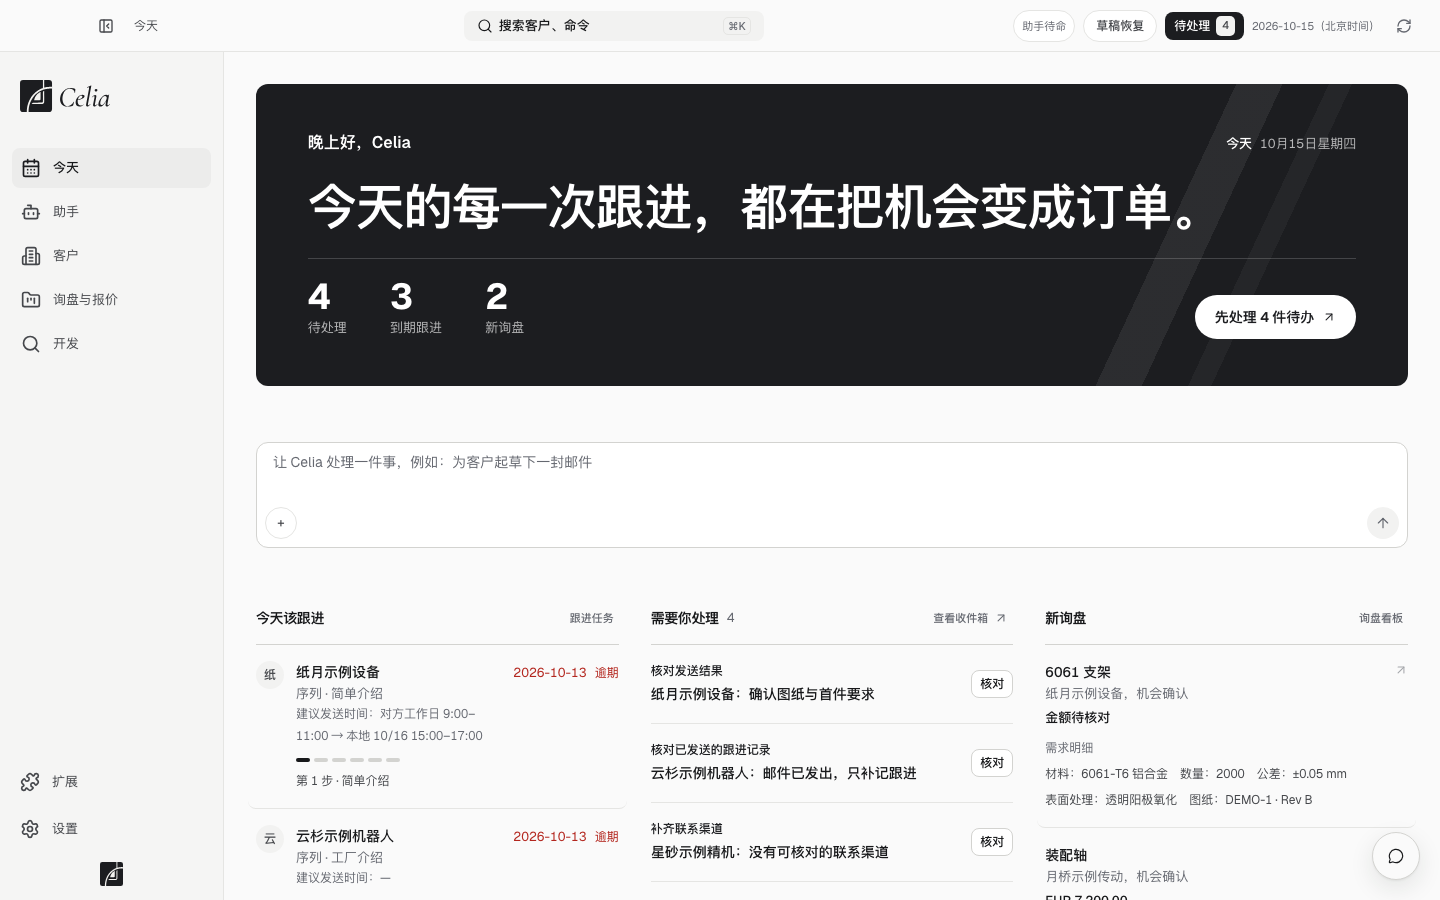
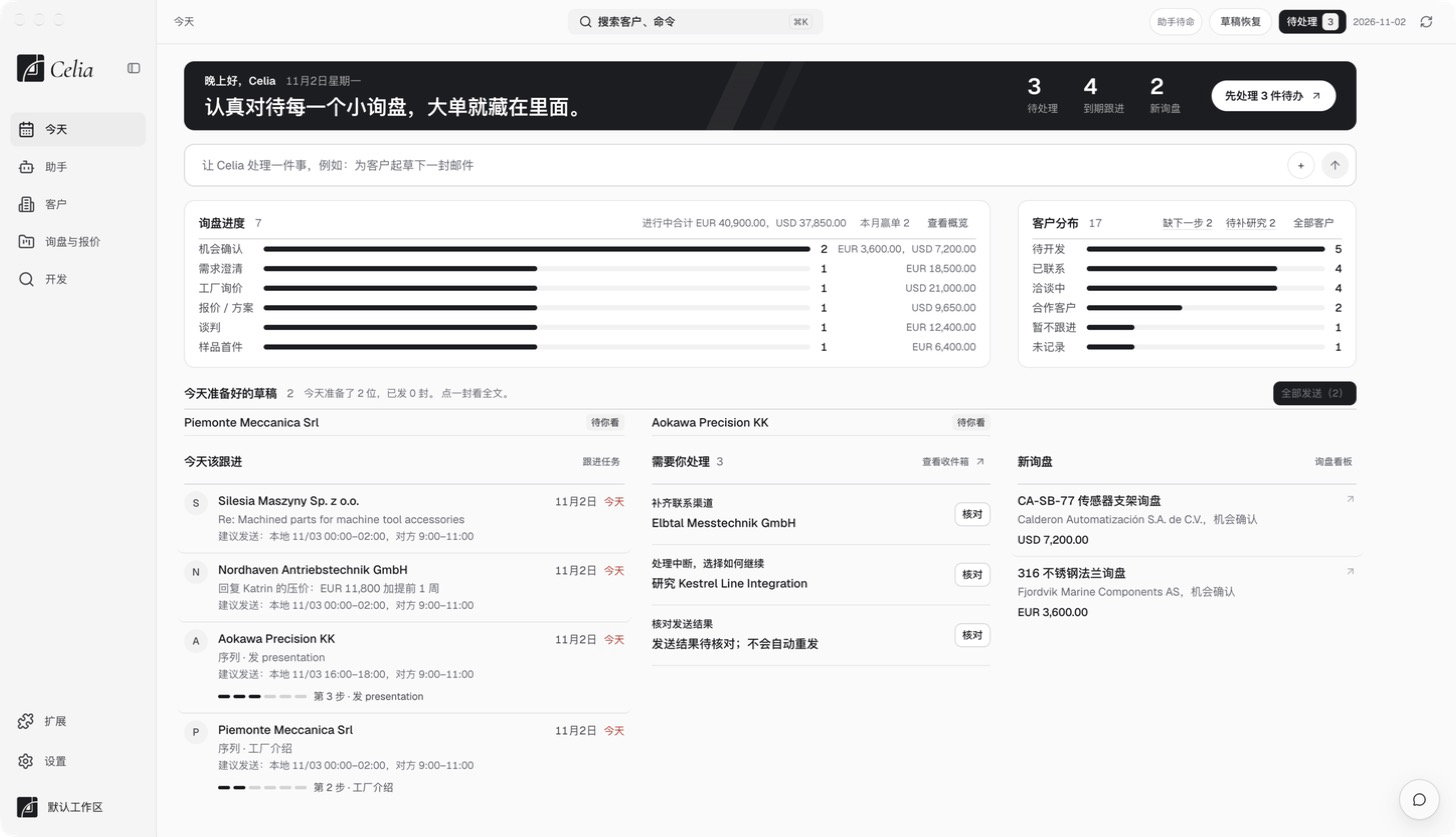
Guide 0.0.9.2: today overview, update button and loading screen

diff --git a/guide/03-daily.md b/guide/03-daily.md
@@ -19,7 +19,7 @@
 
 点左边的 **今天**。
 
-<p align="center"><img src="../assets/screenshots/graphite-today.png" alt="今天页：最上面是问候和今天的一句话，下面是待处理、到期跟进、新询盘" width="860"></p>
+<p align="center"><img src="../assets/screenshots/graphite-today.png" alt="今天页：最上面是问候和今天的一句话以及待处理、到期跟进、新询盘，下面是询盘进度和客户分布的数据概览，再往下是草稿和明细" width="860"></p>
 
 最上面一栏是问候和**今天的一句话**，每天换一句。旁边三个数字一眼看完今天的量：
 
@@ -32,6 +32,8 @@
 数字下面的大按钮会告诉你**先做哪件事**：有待处理就是「先处理 N 件待办」，没有就是「去跟进 N 位客户」，都清空了就是「让 Celia 开工」，点一下就开始。
 
 问候里的名字来自 设置 → 我的资料 里的姓名；没填时显示「Celia」。
+
+再往下是**数据概览**（0.0.9.2 起）：**询盘进度**是每个阶段有几单、多少金额，不同币种分开算；**客户分布**是每个阶段有几家客户。点一行就打开对应的列表。
 
 往下是三块明细：**需要你处理**、**今天该跟进**（客户和他们在跟进序列里走到第几步）、**新询盘**（材料、数量、公差、表面处理、图纸）。
 

diff --git a/guide/08-data.md b/guide/08-data.md
@@ -59,7 +59,7 @@
 | **你的邮箱服务商** | 你或助手发出的邮件 | 发送时 |
 | **领英** | 你或助手发出的私信和帖子 | 使用领英功能时 |
 | **GitHub** | 只读取版本信息，不带任何客户数据 | 每天检查更新时 |
-| **GitHub** | 只读取小修复的版本信息并下载修复包，不带任何客户数据 | 0.0.9 起，开着「自动安装小修复」时，启动时和之后每 6 小时 |
+| **GitHub** | 只读取小修复的版本信息并下载修复包，不带任何客户数据 | 0.0.9 起，开着「自动安装小修复」时，启动时和之后每 6 小时；0.0.9.2 起，点「检查更新」时也会读取 |
 | **你接上的其他 AI 工具**（可选） | 你在那个工具里让它查的客户资料；联系人的姓名、邮箱和电话**只以编号交出** | 打开 设置 → 账号与连接 → 本机连接（MCP）并在那个工具里使用时 |
 
 - 模型连接只使用你电脑自己的 DNS 设置，不会另外向第三方查询地址。

diff --git a/guide/10-changes.md b/guide/10-changes.md
@@ -6,6 +6,15 @@
 
 ---
 
+## 0.0.9.2（2026-11，小修复）
+
+**操作上的变化：**
+- **「今天」页新增数据概览**：询盘进度（每个阶段的单数和金额）、客户分布（每个阶段的家数）。点一行就打开对应的列表。
+- **「检查更新」也会检查小修复**：设置 → 关于与更新 点一下，有新修复就下载，退出并重新打开 Celia 后生效。
+- **打开时的加载画面重做**：和启动动画连成一体。
+
+**指南跟着改的章节：** [安装与更新](01-install.md)、[每日工作流程](03-daily.md)、[数据、备份与隐私](08-data.md)。
+
 ## 0.0.9.1（2026-11，小修复）
 
 **操作上的变化：**
